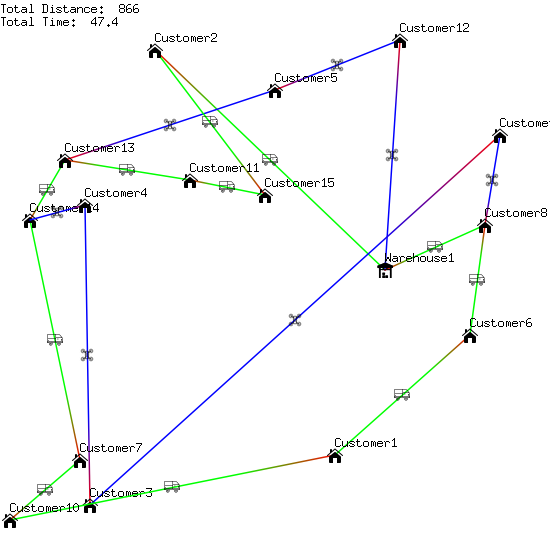
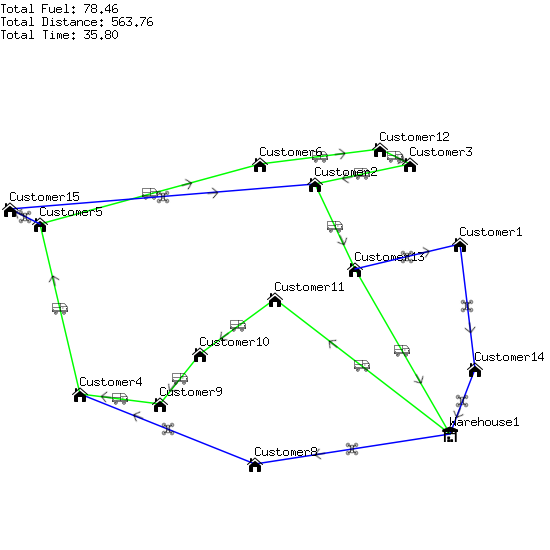
Update example and refactor main

diff --git a/main.go b/main.go
@@ -14,7 +14,7 @@ import (
 	"github.com/victorguarana/vehicle-routing/internal/vehicle"
 )
 
-const mapFilename = "maps/map1"
+const mapFilename = "example/map"
 
 var allMeasures = map[string]func(itinerary.Info) float64{
 	"Total Distance": measure.TotalDistance,
@@ -46,7 +46,7 @@ func ClosestNeighbor() {
 
 	itnInfo := itn.Info()
 	outputInfos := mountOutputInfo(itnInfo)
-	filename := fmt.Sprintf("%s-closest-neighbor.png", mapFilename)
+	filename := fmt.Sprintf("%s_closest_neighbor.png", mapFilename)
 	output.ToImage(filename, itnInfo, outputInfos)
 }
 
@@ -59,7 +59,7 @@ func ClosestNeighborWithDrones() {
 
 	itnInfo := itn.Info()
 	outputInfos := mountOutputInfo(itnInfo)
-	filename := fmt.Sprintf("%s-closest-neighbor-with-drones.png", mapFilename)
+	filename := fmt.Sprintf("%s_closest_neighbor_with_drones.png", mapFilename)
 	output.ToImage(filename, itnInfo, outputInfos)
 }
 
@@ -79,7 +79,7 @@ func ClosestNeighborWithDronesShiftC2D() {
 
 	itnInfo := itn.Info()
 	outputInfos := mountOutputInfo(itnInfo)
-	filename := fmt.Sprintf("%s-closest-neighbor-with-drones-shift-c2d.png", mapFilename)
+	filename := fmt.Sprintf("%s_closest_neighbor_with_drones_shift_c2d.png", mapFilename)
 	output.ToImage(filename, itnInfo, outputInfos)
 }
 
@@ -99,7 +99,7 @@ func ClosestNeighborWithDronesShiftD2C() {
 
 	itnInfo := itn.Info()
 	outputInfos := mountOutputInfo(itnInfo)
-	filename := fmt.Sprintf("%s-closest-neighbor-with-drones-shift-d2c.png", mapFilename)
+	filename := fmt.Sprintf("%s_closest_neighbor_with_drones_shift_d2c.png", mapFilename)
 	output.ToImage(filename, itnInfo, outputInfos)
 }
 
@@ -119,7 +119,7 @@ func ClosestNeighborWithDronesSwapCD() {
 
 	itnInfo := itn.Info()
 	outputInfos := mountOutputInfo(itnInfo)
-	filename := fmt.Sprintf("%s-closest-neighbor-with-drones-swap-cd.png", mapFilename)
+	filename := fmt.Sprintf("%s_closest_neighbor_with_drones_swap_cd.png", mapFilename)
 	output.ToImage(filename, itnInfo, outputInfos)
 }
 
@@ -130,7 +130,7 @@ func BestInsertion() {
 
 	itnInfo := itn.Info()
 	outputInfos := mountOutputInfo(itnInfo)
-	filename := fmt.Sprintf("%s-best-insertion.png", mapFilename)
+	filename := fmt.Sprintf("%s_best_insertion.png", mapFilename)
 	output.ToImage(filename, itnInfo, outputInfos)
 }
 
@@ -143,7 +143,7 @@ func BestInsertionWithDrones() {
 
 	itnInfo := itn.Info()
 	outputInfos := mountOutputInfo(itnInfo)
-	filename := fmt.Sprintf("%s-best-insertion-with-drones.png", mapFilename)
+	filename := fmt.Sprintf("%s_best_insertion_with_drones.png", mapFilename)
 	output.ToImage(filename, itnInfo, outputInfos)
 }
 
@@ -163,7 +163,7 @@ func BestInsertionWithDronesShiftC2D() {
 
 	itnInfo := itn.Info()
 	outputInfos := mountOutputInfo(itnInfo)
-	filename := fmt.Sprintf("%s-best-insertion-with-drones-shift-c2d.png", mapFilename)
+	filename := fmt.Sprintf("%s_best_insertion_with_drones_shift_c2d.png", mapFilename)
 	output.ToImage(filename, itnInfo, outputInfos)
 }
 
@@ -182,7 +182,7 @@ func BestInsertionWithDronesShiftD2C() {
 
 	itnInfo := itn.Info()
 	outputInfos := mountOutputInfo(itnInfo)
-	filename := fmt.Sprintf("%s-best-insertion-with-drones-shift-d2c.png", mapFilename)
+	filename := fmt.Sprintf("%s_best_insertion_with_drones_shift_d2c.png", mapFilename)
 	output.ToImage(filename, itnInfo, outputInfos)
 }
 
@@ -201,7 +201,7 @@ func BestInsertionWithDronesSwapCD() {
 
 	itnInfo := itn.Info()
 	outputInfos := mountOutputInfo(itnInfo)
-	filename := fmt.Sprintf("%s-best-insertion-with-drones-swap-cd.png", mapFilename)
+	filename := fmt.Sprintf("%s_best_insertion_with_drones_swap_cd.png", mapFilename)
 	output.ToImage(filename, itnInfo, outputInfos)
 }
 
@@ -213,7 +213,7 @@ func Covering() {
 
 	itnInfo := itn.Info()
 	outputInfos := mountOutputInfo(itnInfo)
-	filename := fmt.Sprintf("%s-covering.png", mapFilename)
+	filename := fmt.Sprintf("%s_covering.png", mapFilename)
 	output.ToImage(filename, itnInfo, outputInfos)
 }
 
@@ -225,7 +225,7 @@ func CoveringMaxDrones() {
 
 	itnInfo := itn.Info()
 	outputInfos := mountOutputInfo(itnInfo)
-	filename := fmt.Sprintf("%s-covering-max-drones.png", mapFilename)
+	filename := fmt.Sprintf("%s_covering_max_drones.png", mapFilename)
 	output.ToImage(filename, itnInfo, outputInfos)
 }
 

diff --git a/example/README.md b/example/README.md
@@ -3,23 +3,23 @@
 ## Input
 
 ```
-Warehouse1;-1;27;0
-Warehouse2;-14;-43;0
-Customer1;36;17;8
-Customer2;-45;-19;12
-Customer3;46;-32;4
-Customer4;-14;-33;4
-Customer5;-37;5;1
-Customer6;12;44;15
-Customer7;37;-34;7
-Customer8;-10;47;6
-Customer9;-28;50;1
-Customer10;49;-48;8
-Customer11;-19;-12;10
-Customer12;-47;30;6
-Customer13;-23;-37;5
-Customer14;-11;-44;14
-Customer15;-16;3;6
+Warehouse1;29;40;0
+Warehouse2;-25;23;0
+Customer1;-9;42;3
+Customer2;-21;13;6
+Customer3;-25;32;14
+Customer4;21;-34;3
+Customer5;-13;-42;12
+Customer6;-25;2;12
+Customer7;37;-29;0
+Customer8;35;1;9
+Customer9;23;-18;10
+Customer10;13;-10;12
+Customer11;2;5;2
+Customer12;-28;26;11
+Customer13;-4;21;11
+Customer14;16;45;6
+Customer15;-16;-48;10
 ```
 
 ## Output
@@ -32,6 +32,18 @@ Customer15;-16;3;6
 
 ![image](map_best_insertion_with_drones.png)
 
+### Best Insertion with Drone Strike Insertion + Car to Drone Shift
+
+![image](map_best_insertion_with_drones_shift_c2d.png)
+
+### Best Insertion with Drone Strike Insertion + Drone to Car Shift
+
+![image](map_best_insertion_with_drones_shift_d2c.png)
+
+### Best Insertion with Drone Strike Insertion + Car and Drone Swap
+
+![image](map_best_insertion_with_drones_swap_cd.png)
+
 ### Closest Neighbor
 
 ![image](map_closest_neighbor.png)
@@ -39,6 +51,18 @@ Customer15;-16;3;6
 ### Closest Neighbor with Drone Strike Insertion
 
 ![image](map_closest_neighbor_with_drones.png)
+
+### Closest Neighbor with Drone Strike Insertion + Car to Drone Shift
+
+![image](map_closest_neighbor_with_drones_shift_c2d.png)
+
+### Closest Neighbor with Drone Strike Insertion + Drone to Car Shift
+
+![image](map_closest_neighbor_with_drones_shift_d2c.png)
+
+### Closest Neighbor with Drone Strike Insertion + Car and Drone Swap
+
+![image](map_closest_neighbor_with_drones_swap_cd.png)
 
 ### Greedy Coverage by Drones
 
